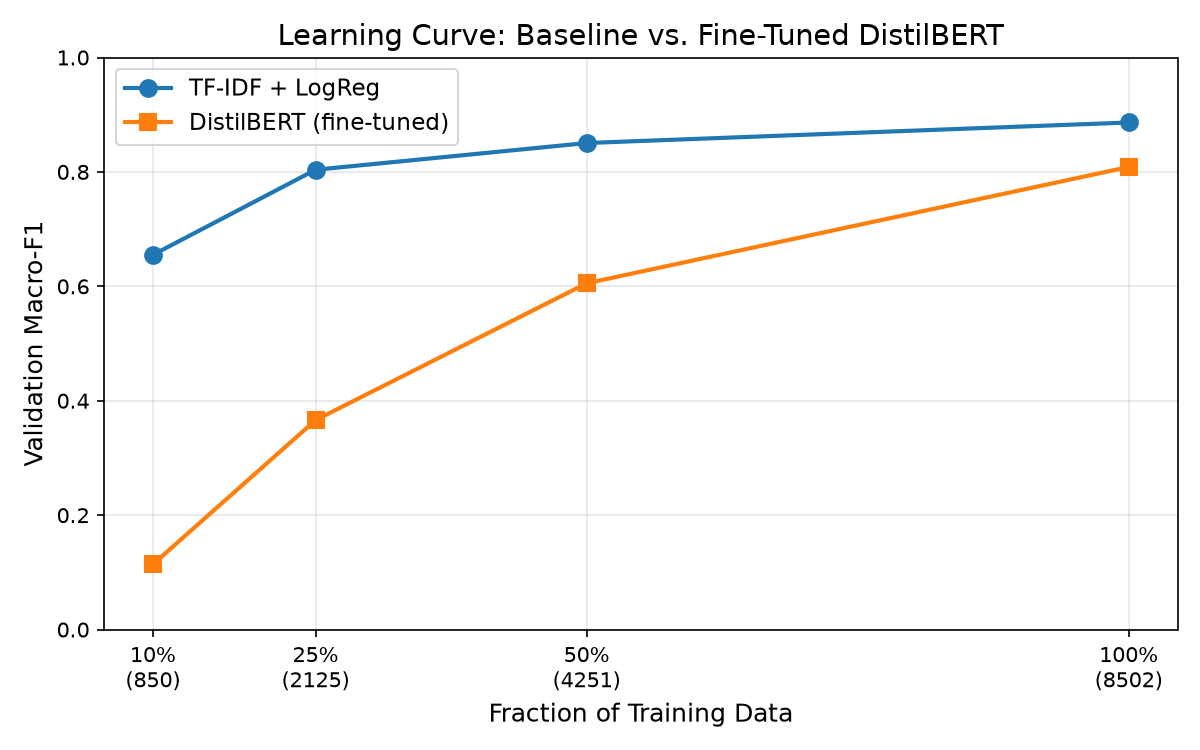
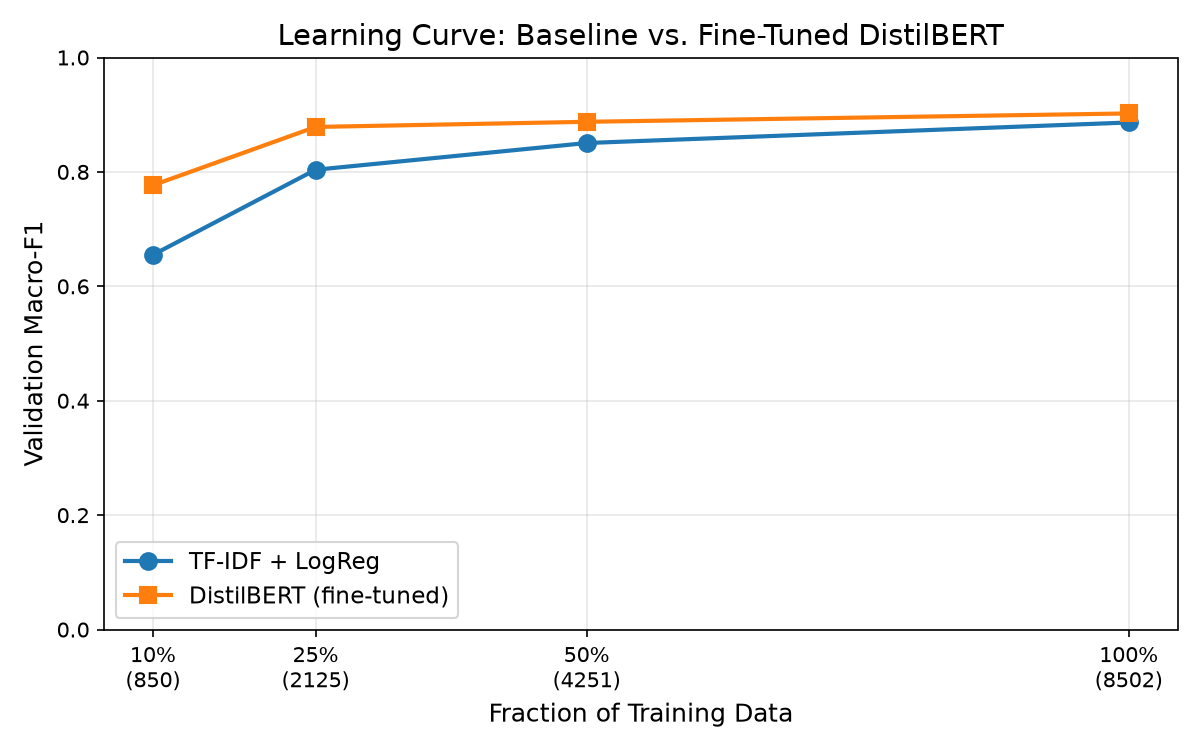
Fix learning curve: scale epochs for fair training budget
The learning curve previously used a fixed 3 epochs for DistilBERT at
every data fraction, which measured training budget, not data efficiency.
Now epochs are scaled so each fraction gets ~1,330 total gradient steps
(matching the full 5-epoch run). DistilBERT beats the baseline at every
data size, with the largest gap at 10-25%.

Also fixes:
- README: "edges out" → "perform comparably" (gap within seed std dev)
- README: Methods table n-gram description now matches best config
- README: error analysis section names the seed used (456)
- analyze.py: transformer accuracy column was reading F1 instead

diff --git a/src/analyze.py b/src/analyze.py
@@ -277,8 +277,12 @@ def learning_curve_experiment():
 
     For each data fraction:
       - Trains TF-IDF + LogReg baseline (from src/baseline.py).
-      - Trains DistilBERT (from src/finetune.py) for 3 epochs (faster for partial data).
+      - Trains DistilBERT (from src/finetune.py) with a fair training budget.
       - Evaluates both on the full validation set.
+
+    Training budget: epochs are scaled so each fraction gets roughly the same
+    total number of gradient steps as the full-data run (5 epochs × full batches).
+    This ensures the learning curve measures data efficiency, not training budget.
 
     Results are saved to:
       - results/learning_curve.json — metrics at each fraction.
@@ -289,10 +293,16 @@ def learning_curve_experiment():
     """
     # Import here to avoid circular imports — these modules also import from data.py.
     from baseline import train_baseline, evaluate
-    from finetune import train_and_evaluate as finetune_train
+    from finetune import train_and_evaluate as finetune_train, DEFAULT_BATCH_SIZE, DEFAULT_EPOCHS
 
     fractions = [0.10, 0.25, 0.50, 1.0]
     results = []
+
+    # Compute the reference step count from the full-data run.
+    full_splits = get_splits()
+    full_train_size = len(full_splits["train_texts"])
+    full_batches_per_epoch = (full_train_size + DEFAULT_BATCH_SIZE - 1) // DEFAULT_BATCH_SIZE
+    reference_steps = full_batches_per_epoch * DEFAULT_EPOCHS
 
     for frac in fractions:
         print(f"\n{'=' * 50}")
@@ -301,27 +311,35 @@ def learning_curve_experiment():
 
         splits = get_partial_splits(fraction=frac)
         train_size = len(splits["train_texts"])
-        print(f"  Training on {train_size} examples")
+
+        # Scale epochs to match the full run's total gradient steps.
+        batches_per_epoch = max(1, (train_size + DEFAULT_BATCH_SIZE - 1) // DEFAULT_BATCH_SIZE)
+        scaled_epochs = max(DEFAULT_EPOCHS, round(reference_steps / batches_per_epoch))
+        print(f"  Training on {train_size} examples ({scaled_epochs} epochs to match step budget)")
 
         # --- Baseline ---
         print("  Training baseline...")
         pipeline = train_baseline(splits["train_texts"], splits["train_labels"])
         bl_metrics = evaluate(pipeline, splits["val_texts"], splits["val_labels"])
 
-        # --- Transformer (fewer epochs for speed on partial data) ---
+        # --- Transformer (scaled epochs for a fair comparison) ---
         print("  Training DistilBERT...")
         ft_result = finetune_train(
-            splits, seed=RANDOM_SEED, epochs=3,
+            splits, seed=RANDOM_SEED, epochs=scaled_epochs,
             evaluate_test=False,
         )
+
+        # Extract the best validation metrics from the epoch logs.
+        best_log = max(ft_result["epoch_logs"], key=lambda e: e["val_macro_f1"])
 
         entry = {
             "fraction": frac,
             "train_size": train_size,
+            "epochs": scaled_epochs,
             "baseline_val_accuracy": round(bl_metrics["accuracy"], 4),
             "baseline_val_macro_f1": round(bl_metrics["macro_f1"], 4),
-            "transformer_val_accuracy": round(ft_result.get("best_val_f1", 0), 4),
-            "transformer_val_macro_f1": round(ft_result.get("best_val_f1", 0), 4),
+            "transformer_val_accuracy": round(best_log["val_accuracy"], 4),
+            "transformer_val_macro_f1": round(best_log["val_macro_f1"], 4),
         }
         results.append(entry)
         print(f"  Baseline val F1:     {entry['baseline_val_macro_f1']:.4f}")

diff --git a/README.md b/README.md
@@ -17,7 +17,7 @@ Given a customer banking query (e.g., *"I need to top up my account"*), classify
 
 | Model | Description |
 |-------|-------------|
-| **Baseline** | TF-IDF (word 1-2-grams, sublinear TF) → Logistic Regression. Hyperparameters (C, n-gram range) tuned on validation. |
+| **Baseline** | TF-IDF (word n-grams, sublinear TF) → Logistic Regression. Hyperparameters (C, n-gram range) tuned on validation; best: C=10, unigrams. |
 | **DistilBERT** | `distilbert-base-uncased` fine-tuned with AdamW + linear warmup. Hand-written PyTorch training loop. Evaluated with 3 random seeds. |
 
 ## Results
@@ -27,24 +27,26 @@ Given a customer banking query (e.g., *"I need to top up my account"*), classify
 | TF-IDF + LogReg (C=10, unigrams) | 89.61% | 89.63% |
 | DistilBERT (mean ± std, 3 seeds) | 90.15 ± 0.25% | 90.02 ± 0.30% |
 
-Fine-tuned DistilBERT edges out the baseline by ~0.4% macro-F1. The gap is small, which shows that TF-IDF + Logistic Regression is a genuinely strong baseline for this task.
+The two models perform comparably (the 0.39-point gap falls within the transformer's seed-to-seed standard deviation of 0.30). TF-IDF + Logistic Regression is a genuinely strong baseline for this task.
 
 ### Learning Curve
 
 ![Learning Curve](results/learning_curve.png)
 
-Both models are trained on 10%, 25%, 50%, and 100% of the training data. The baseline is strong even with very little data, while DistilBERT needs substantially more examples (and sufficient training epochs) to reach its full potential.
+Both models are trained on 10%, 25%, 50%, and 100% of the training data. To ensure a fair comparison, DistilBERT epochs are scaled at each fraction so the total number of gradient steps matches the full-data run (5 epochs x 266 batches = 1,330 steps).
 
-| Data Fraction | Baseline Val F1 | DistilBERT Val F1 |
-|:---:|:---:|:---:|
-| 10% (850) | 65.5% | 11.4% |
-| 25% (2,125) | 80.4% | 36.7% |
-| 50% (4,251) | 85.1% | 60.5% |
-| 100% (8,502) | 88.6% | 80.8% |
+| Data Fraction | Baseline Val F1 | DistilBERT Val F1 | DistilBERT Epochs |
+|:---:|:---:|:---:|:---:|
+| 10% (850) | 65.5% | 77.7% | 49 |
+| 25% (2,125) | 80.4% | 87.9% | 20 |
+| 50% (4,251) | 85.1% | 88.8% | 10 |
+| 100% (8,502) | 88.6% | 90.2% | 5 |
+
+DistilBERT outperforms the baseline at every data size. The transformer's advantage is largest in the low-data regime (10-25%), where pre-trained representations compensate for fewer examples. The gap narrows as data grows and the baseline catches up.
 
 ### Error Analysis
 
-Out of 3,080 test examples:
+Error analysis uses the transformer's seed-456 run (test accuracy 89.81%, slightly below the 3-seed mean). Out of 3,080 test examples:
 - **2,631** both models got right
 - **185** both models got wrong (genuinely hard examples)
 - **135** only the baseline got wrong (transformer improvement)
